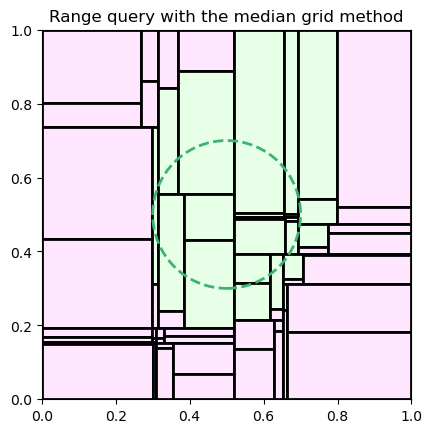
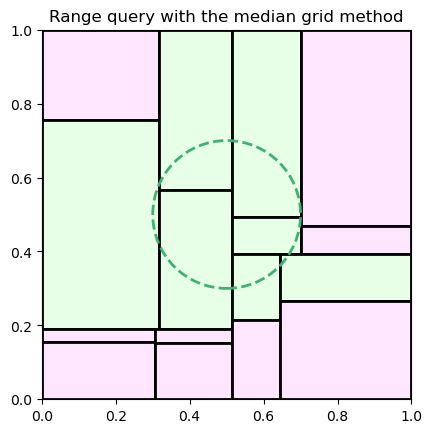
test 3

Changed region(s): [[0.0903, 0.06, 0.963, 0.9307]]

diff --git a/graph_cases.py b/graph_cases.py
@@ -94,7 +94,7 @@ def prep_points(db,datafile,samp):
 def draw_range_query(points,shapefile=None):
     #basically just draws the points with a circle and a radius
     #draws them in red if they're in, black if not
-    x = (min(points[:,0])+max(points[:,0]))/2
+    x = (min(points[:,0])+max(points[:,0]))/2.05
     y = (min(points[:,1])+max(points[:,1]))/2
     centre = np.array([x,y])
     print(centre)
@@ -119,11 +119,11 @@ def draw_range_query(points,shapefile=None):
     colours = ['orchid','lightseagreen']
     is_inside = np.sum((points - centre)**2, axis=1) < radius**2
     colmap = ListedColormap(colours)
-    ax.scatter(centre[0],centre[1], color="black",edgecolor="black",marker="x")
-    ax.scatter(points[:, 0], points[:, 1], c=is_inside, cmap=colmap,edgecolor='none',linewidth=0.1,label='Spatial Points',marker=".")  
+    ax.scatter(centre[0],centre[1], color="black",edgecolor="black",s=100,marker="x")
+    ax.scatter(points[:, 0], points[:, 1], c=is_inside, cmap=colmap,edgecolor='none',linewidth=0.1,label='Spatial Points',marker=".")
     query_circle = plt.Circle(centre, radius, color='mediumseagreen', fill=False, linestyle='--', linewidth=2, label='Query Range')
     ax.add_patch(query_circle)
-    plt.savefig("img/r.png",bbox_inches="tight")
+    plt.savefig("img/r.png",bbox_inches="tight",dpi=300)
 
 
     plt.show()
@@ -136,17 +136,22 @@ def rect_circle(min_x, max_x, min_y, max_y, c_x, c_y, rad):
 
 def draw_hilbert_curve(order, ax):
     ax.set_aspect('equal','box')
-    ax.set_title("n = "+str(order))
-    ax.set_ylim(0,1)
-    ax.set_xlim(0,1)
+    ax.set_title("Order = "+str(order),fontsize=20)
+    ax.set_ylim(-0.02,1.02)
+    ax.set_xlim(-.02,1.02)
     ax.axis('off')
     rect = patches.Rectangle((0, 0), 1, 1, linewidth=2, edgecolor='black', facecolor='none', zorder=10)
     ax.add_patch(rect)
     curve = hilbert_curve(order, 'u')
     curve = np.array(curve)
     cc = np.array([1/(2**(order+1))+np.sum(curve[:i], 0)/(2**order) for i in range(len(curve)+1)])
+    w = 1
+    if order == 4:
+        w = 3
+    if order < 4:
+        w = 6
     for i in range(len(cc)-1):
-        ax.plot(cc[i:i+2][:,0],cc[i:i+2][:,1],color='mediumseagreen',linestyle="-")
+        ax.plot(cc[i:i+2][:,0],cc[i:i+2][:,1],color='mediumseagreen',linestyle="-",linewidth=w)
     """
     if order < 4:
         square_size = 1/(2**order)
@@ -158,7 +163,7 @@ def draw_hilbert_curve(order, ax):
                     
                     ax.imshow(mask, extent=extent, cmap='Blues', alpha=0.3, origin='lower', interpolation='bilinear')   
     """
-    plt.savefig("img/hil.png",bbox_inches="tight")
+    #plt.savefig("img/hil.png",bbox_inches="tight")
 
 def draw_single_hilbert(order):
     fig, ax = plt.subplots()
@@ -235,6 +240,7 @@ def draw_multiple_hilbert(orders,dim):
         draw_hilbert_curve(order, axes[i])
 
     plt.tight_layout()
+    plt.savefig("img/hil4.png",bbox_inches="tight",dpi=300)
     plt.show()
 
 
@@ -244,7 +250,8 @@ def draw_range_partitions():
 
 
 if __name__ == "__main__":
-    #draw_multiple_hilbert([1,2,4,6],(2,2))
+    draw_multiple_hilbert([1,2,4,6],(2,2))
+    """
     if len(sys.argv) < 4:
         print("how to use: (db_name) (data_name) (sample size) optional: shapefile")
         quit()
@@ -253,3 +260,4 @@ if __name__ == "__main__":
         draw_range_query(p,sys.argv[4])
     else:
         draw_range_query(p)
+    """

diff --git a/run_tests.py b/run_tests.py
@@ -227,7 +227,7 @@ class m3_case(test_case):
         self.label = "M3"
     @classmethod
     def get_param_grid(cls):
-        return {"b_min": [128,256], "c_min": [128,256],"b_dep":[6],"c_dep":[6]}
+        return {"b_min": [64,256], "c_min": [64,256],"b_dep":[4],"c_dep":[4]}
     def subp(self,filename:str, tab:str, col:str, queries_file:str,clus:str,w):
         return subprocess.Popen(["bin/m3test",filename,tab,col,queries_file,clus,str(self.b_min),str(self.b_dep),str(self.c_min),str(self.c_dep),str(w)],pass_fds=(w,))
 
@@ -282,20 +282,20 @@ def graph_final_results(cases:list[test_case]):
     for case in best.values():
         y.append(case.times)
         xlabs.append(case.label)
-    bp = plt.boxplot(y,patch_artist=True,tick_labels=xlabs)
+    bp = plt.boxplot(y,patch_artist=True,tick_labels=xlabs,showfliers=False)
     for patch in bp['boxes']:
-        patch.set_facecolor('seagreen')
+        patch.set_facecolor('mediumseagreen')
         for median in bp['medians']:
             median.set_color('black')
             median.set_linewidth(2)
 
     #adds labels, title, etc to graph
     plt.yscale('log',base=10)
-    plt.ylabel("log(t)")
+    plt.ylabel("log(time)")
     plt.title("Average time taken for each test case")
     plt.grid(axis='y', linestyle='-', alpha=0.5)
 
-    plt.savefig("img/res.png",bbox_inches="tight")
+    plt.savefig("img/res.png",bbox_inches="tight",dpi=300)
     plt.show()
 
 
@@ -382,25 +382,28 @@ if __name__ == "__main__":
         qname = "data/"+name
         query.generate_query_set(qname+".sqlite",name,"cent",20,32,32,4096,qname+".queries")
         cluster.clustering(qname+".dat")
-        query.generate_clus_query_set(qname+".sqlite",name,"cent",10,qname+".lizard",qname+".cqueries")
+        query.generate_clus_query_set(qname+".sqlite",name,"cent",10,qname+".lizard",qname+".queries")
 
-
-        X = {"filename": qname + ".sqlite","tab": name,"col": "cent","queries_file": qname + ".cqueries"}
-        X1 = {"filename": qname + ".sqlite","tab": name,"col": "cent","queries_file": qname + ".cqueries", "clus": qname+".lizard"}
+        
+        X = {"filename": qname + ".sqlite","tab": name,"col": "cent","queries_file": qname + ".queries"}
+        X1 = {"filename": qname + ".sqlite","tab": name,"col": "cent","queries_file": qname + ".queries", "clus": qname+".lizard"}
 
         cases = []
         cases.append(naive_case.optimise(X))
-        cases.append(good_case.optimise(X))
-        cases.append(m1_case.optimise(X))
+        #cases.append(good_case.optimise(X))
+        #cases.append(m1_case.optimise(X))
         cases.append(m2_case.optimise(X))
-        m3c = m3_case.optimise(X1)
+        #m3c = m3_case.optimise(X1)
         for case in cases:
             for i in range(5):
-                case.run(qname+".sqlite",name,"cent",qname+".cqueries")
-        for i in range(5):
-                m3c.run(qname+".sqlite",name,"cent",qname+".cqueries",qname+".lizard")
-        cases.append(m3c)
+                case.run(qname+".sqlite",name,"cent",qname+".queries")
+        #for i in range(5):
+         #       m3c.run(qname+".sqlite",name,"cent",qname+".queries",qname+".lizard")
+        #cases.append(m3c)
+        test_case.serialise_list("data/"+name+".cases",cases)
+
         graph_final_results(cases)
+
 
 """
         t1 = time.time()

diff --git a/cluster.py b/cluster.py
@@ -200,20 +200,21 @@ def graph_clusters(points, labels,bboxes, shapefile=None):
     ax.set_axis_off()
 
     colors = np.array(["lightcoral","mediumseagreen", "cornflowerblue", "orchid", "orange", "turquoise", "mediumslateblue", "pink", "#000000"])
-
+    ax.set_xlim(-470000,-370000)
+    ax.set_ylim(6480000,6580000)
     if shapefile:
         region = gpd.read_file(shapefile)
         region = region.to_crs(epsg=3857)
         #scol = (14/16, 255/256, 14/16)
         scol = "palegoldenrod"
         region.plot(ax=ax, color=scol, edgecolor="black")
-    ax.scatter(points[:, 0], points[:, 1], s=10, color=colors[labels],marker=".")
+    ax.scatter(points[:, 0], points[:, 1], s=32, color=colors[labels],marker=".",)
 
     for b in bboxes:
         print(b)
         rectangle = patches.Rectangle((b[0], b[1]), b[2]-b[0], b[3]-b[1], linewidth=2, edgecolor='sienna', fill=False)
         ax.add_patch(rectangle)
-    plt.savefig("img/clus_"+str(time.time())+".png",bbox_inches="tight")
+    plt.savefig("img/clus_"+str(time.time())+".png",bbox_inches="tight",dpi=300)
     plt.show()
 
 def clustering(filename,shapefile=None):

diff --git a/src/grid.c b/src/grid.c
@@ -118,8 +118,11 @@ Node *make_node(bbox *bounds){
 	return n;
 }
 
+//i need to make some sort of edit to the split condition
+//we want to only split horizontally if the data's distributed horizontally
+//and vertically if it's only vertical
+//divide into grids and then 
 Node *grid_division(point **p, int pnum, bbox *bounds, int minp, int maxp, int depth, int *count) {
-	printf("among us\n");
 	bbox *b = bounds;
 	Node *n = make_node(b);
 	n->depth = depth;

diff --git a/src/m1.c b/src/m1.c
@@ -359,6 +359,7 @@ void beter2(sqlite3 *db, char *tab, char *col, char *ind, double x, double y, do
 	dbr->len = p_count;
 	//now we do the range check
 	//
+	sqlite3_finalize(r_stmt);
 	int *parts = malloc(p_count*sizeof(int));
 	int r_count = 0;
 	int a1 = 0;
@@ -434,7 +435,7 @@ void beter2(sqlite3 *db, char *tab, char *col, char *ind, double x, double y, do
 	}
 
 	//frees memory and such
-
+	
 	printf("found %d points!%\n", found);
 
 	

diff --git a/draw_bboxes.py b/draw_bboxes.py
@@ -119,5 +119,5 @@ if __name__ == "__main__":
         exit()
     name = sys.argv[1]
 
-    graph_m2("data/"+name+".sqlite", name, "cent", 4096,255)
+    graph_m2("data/"+name+".sqlite", name, "cent", 4096,256)
 
